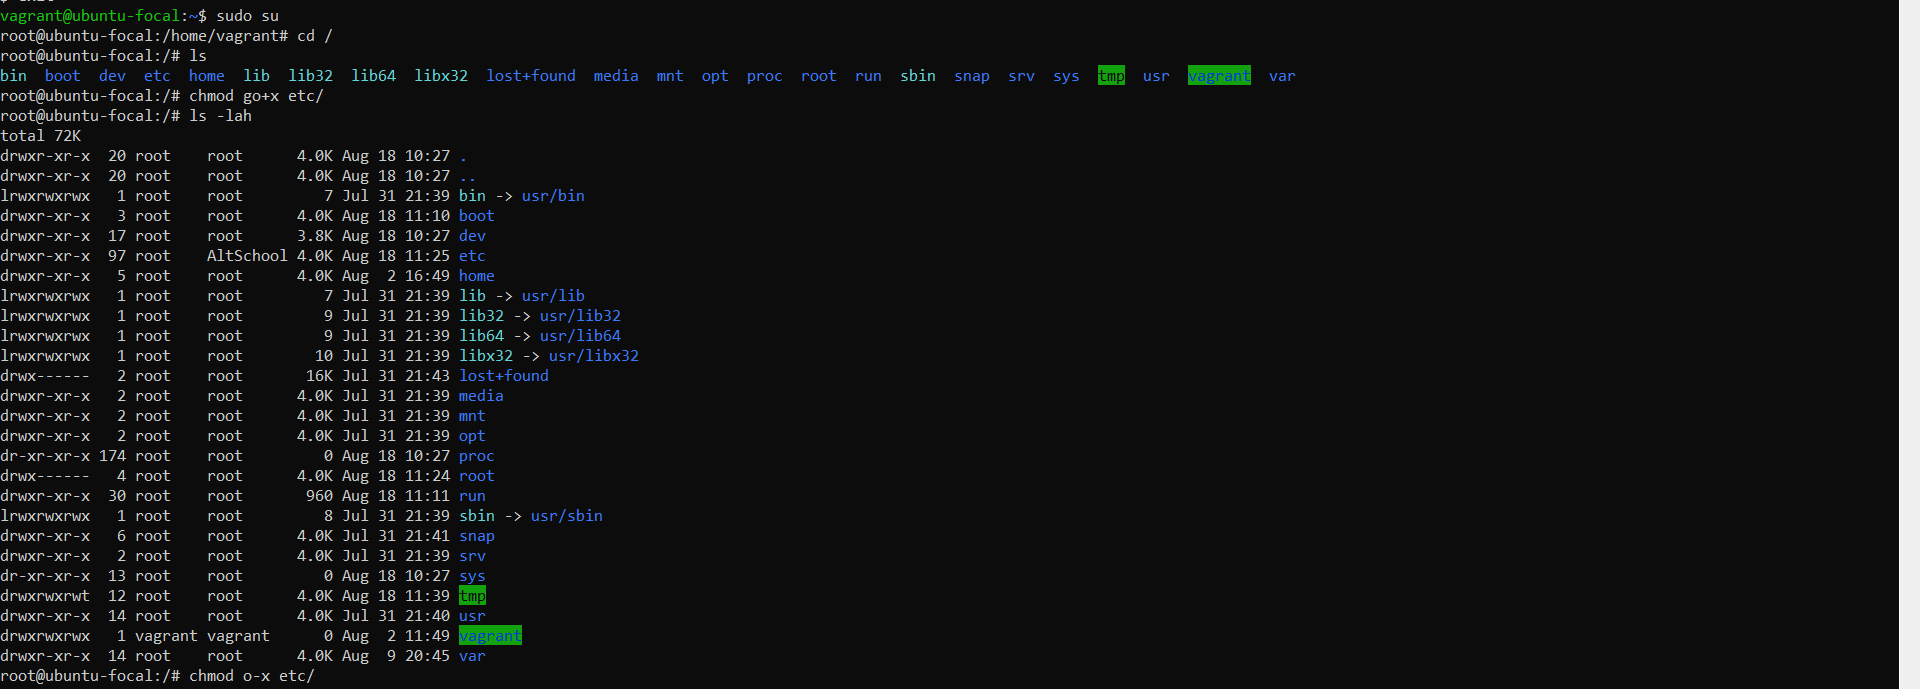
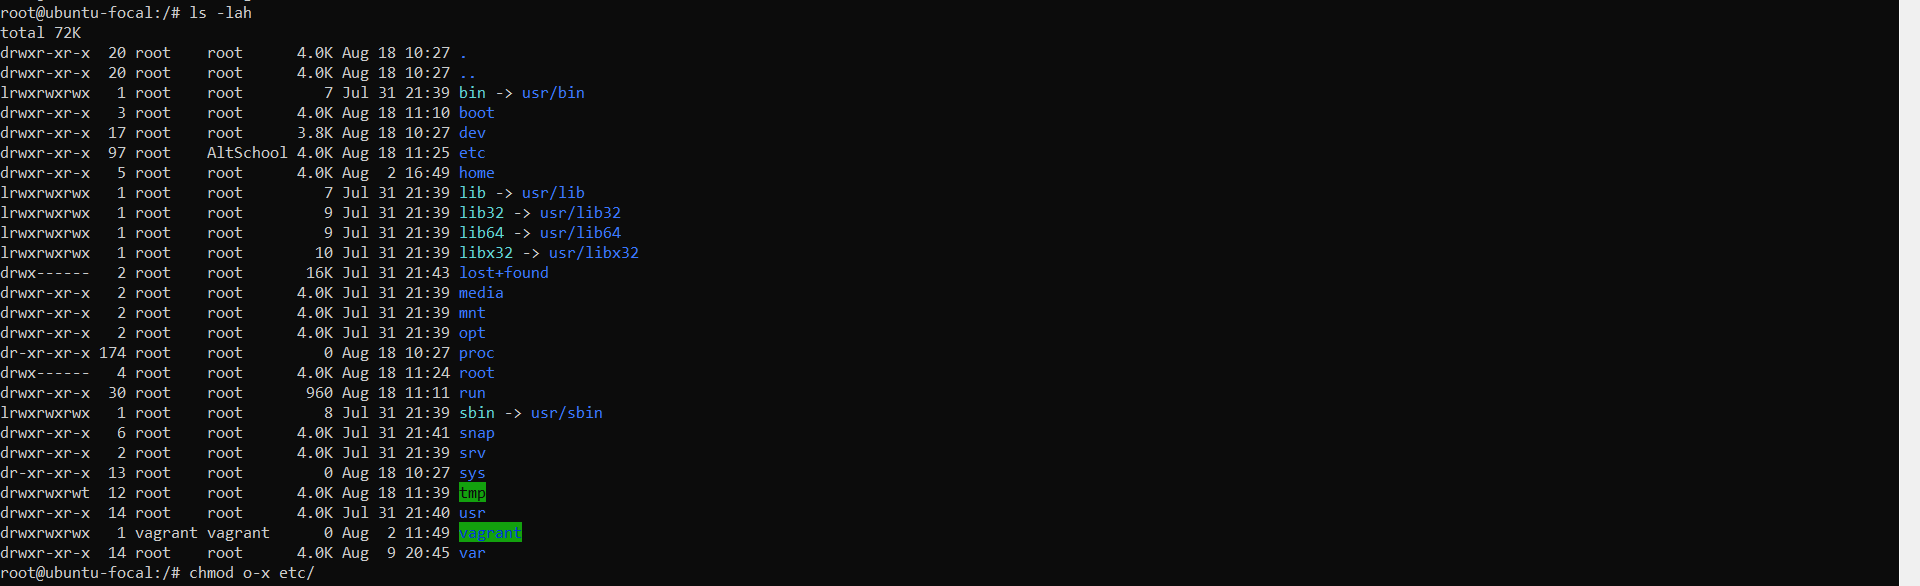
full push of resources-assignment

Changed region(s): [[0.0, 0.0, 0.4375, 1.0], [0.4688, 0.0922, 0.6562, 0.1229]]

diff --git a/User-Group Modification Assigment.md b/User-Group Modification Assigment.md
@@ -1,3 +1,109 @@
 # User and Group Modification Assigment
 
-**Create a user**
+### Create a User
+
+To create a user, the below linux command is used:
+```
+1. useradd username
+2. cat /etc/passwd | grep username //to confirm creation of user - case sensitive
+```
+<span style="color: #fe5d00">username -</span> Kihodu
+
+``Snapshot of Code execution in Terminal``
+
+![](assets/create%20user.png)
+
+***
+
+### Set User expiry date
+
+Input command
+
+Note: User created above - <span style="color: #fe5d00">Kihodu</span>; will be used in other tasks.
+```
+1. usermod -e 2023-08-30 Kihodu    //date format - YYYY-MM-DD
+2. chage -l Kihodu //shows details about a user; confirmation of first line.
+```
+
+``Snapshot of Code execution in Terminal``
+
+![](assets/account%20expiration.png)
+
+***
+
+### Prompt User to change password in next login
+
+Input command
+
+```
+1. passwd --expire Kihodu
+2. chage -l Kihodu //shows details about a user; confirmation of first line
+```
+
+``Snapshot of Code execution in Terminal``
+
+![](assets/user%20must%20change%20pass.png)
+
+***
+
+### Add a User to a group called AltSchool
+
+Input command
+
+```
+1. groupadd groupname   //creates group;
+2. cat /etc/group | grep groupname  //to confirm creation of group - AltSchool
+
+1. usermod -a -G groupname username //to add user to a group
+2. groups username  //shows groups that a user belongs to
+```
+groupname - <span style='color:purple'>AltSchool</span>
+
+``Snapshot of Code execution in Terminal``
+
+![](assets/create%20group.png)
+
+![](assets/add%20user%20to%20group.png)
+
+***
+
+### AltSchool Group can only run cat Command in /etc/
+
+Input command
+
+```
+1. chgrp -R AltSchool /etc   //change groupowner for a folder and files in it to AltSchool
+2. ls -lah  //shows items in directory with permission and owners
+3. chmod -R go-w /etc/  //change permission for others and groupowner - AltSchool; removed the write only
+4. chmod o-x /etc/  //remove execute permission for others
+5. su Kihodu //switch user to Kihodu to test
+6. cd / //change to root directory
+7. cat /etc/passwd
+```
+
+``Snapshot of Code execution in Terminal``
+
+![](assets/folder%20permission%20change%20for%20cat.png)
+
+![](assets/remove%20others%20permission.png)
+
+![](assets/result.png)
+
+![]
+
+***
+
+### Create User that doesnt have a home directory
+
+Input command
+
+```
+1. useradd -M username //username - testUser
+2. chage -l username //shows details about a user; confirmation of first line
+```
+
+``Snapshot of Code execution in Terminal``
+
+![](assets/new%20user%20with%20no%20hime%20directory.png)
+
+***
